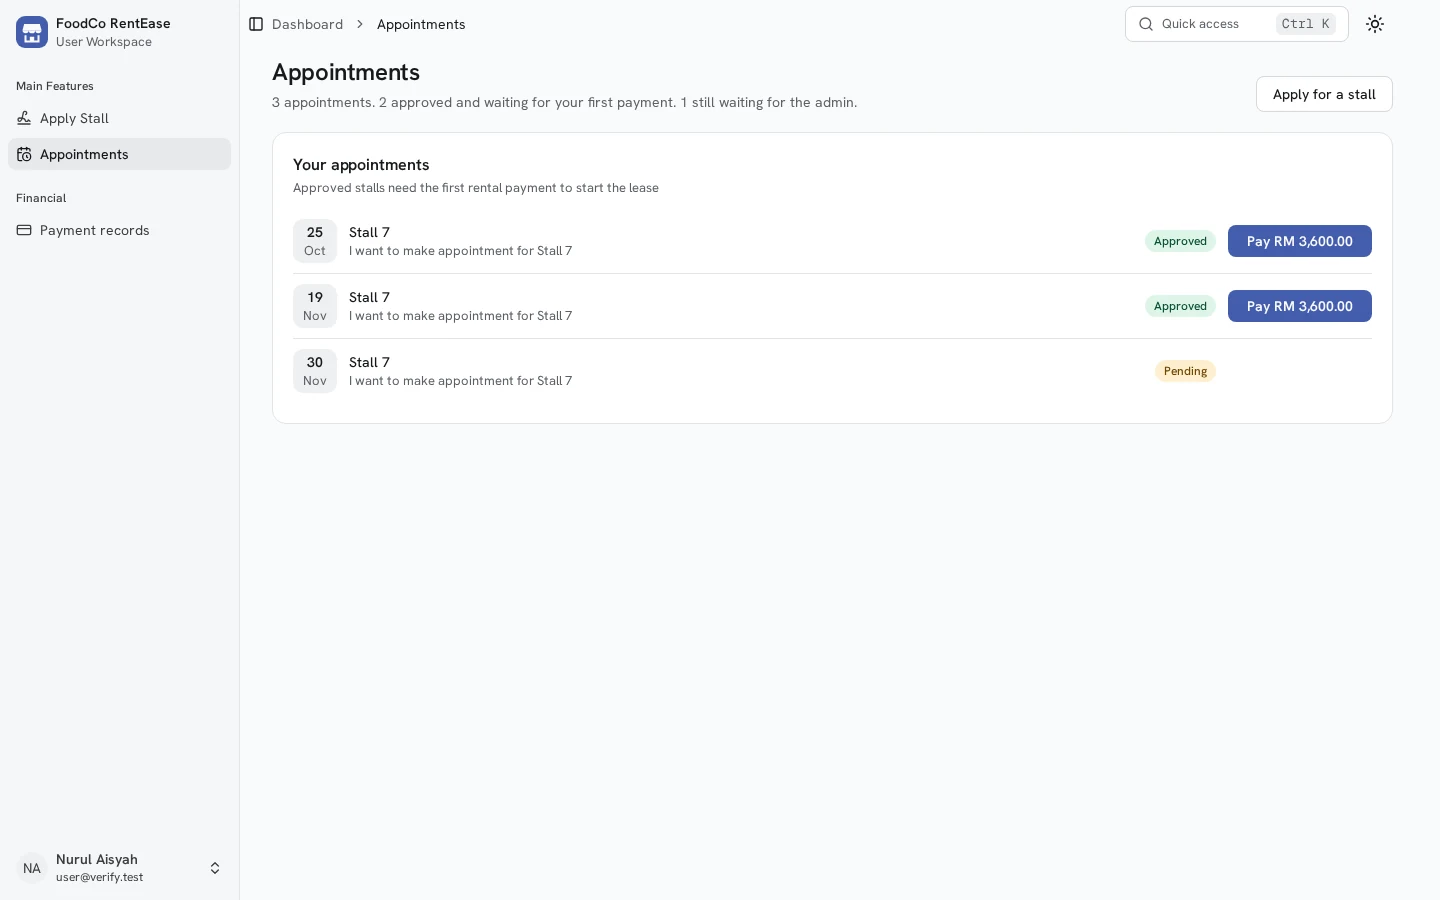
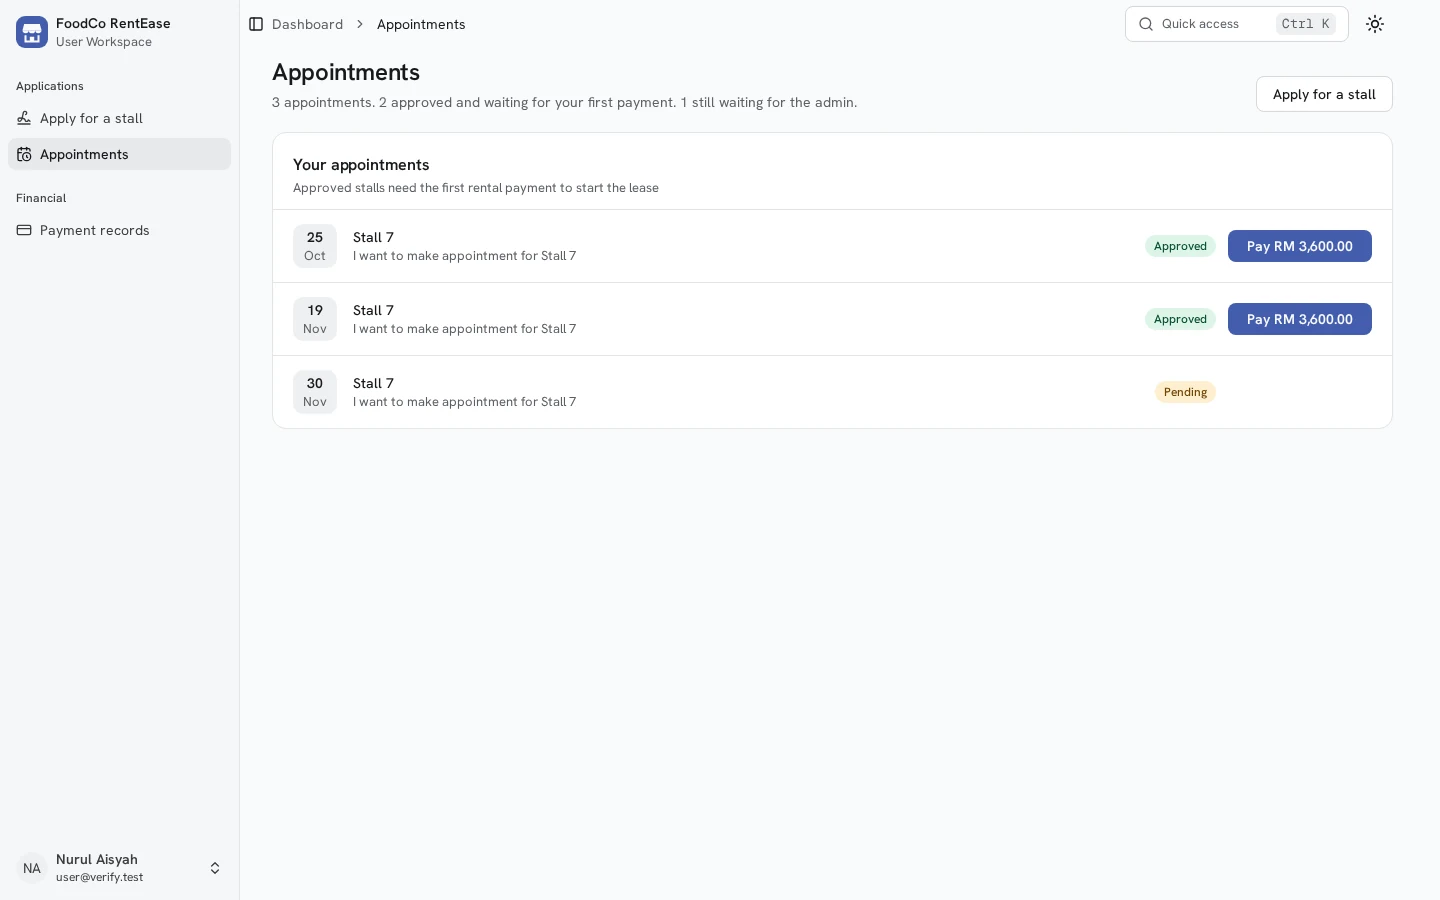
fix(ui): full-bleed appointment rows and one name for applying
Appointment rows now use the same full-width divided list as Leases and
Utilities. The sidebar said Apply Stall or Apply New Stall while the page
button said Apply for a stall; use Apply for a stall under an Applications
group for both workspaces.

diff --git a/fc-front/src/pages/dashboard/functionPage/user/components/UserAppointmentTable.tsx b/fc-front/src/pages/dashboard/functionPage/user/components/UserAppointmentTable.tsx
@@ -168,19 +168,26 @@ export default function UserAppointmentTable() {
                 .join(' ')}
       </PageHeader>
 
-      <Panel>
+      <Panel className="gap-0 pb-0 md:pb-0">
         <PanelHeader
+          className="pb-3"
           title="Your appointments"
           meta="Approved stalls need the first rental payment to start the lease"
         />
         {isLoading ? (
-          <PanelRowsSkeleton rows={3} />
+          <div className="pb-4 md:pb-5">
+            <PanelRowsSkeleton rows={3} />
+          </div>
         ) : error ? (
-          <PanelError what="your appointments" />
+          <div className="pb-4 md:pb-5">
+            <PanelError what="your appointments" />
+          </div>
         ) : rows.length === 0 ? (
-          <PanelEmpty>No appointments yet.</PanelEmpty>
+          <div className="pb-4 md:pb-5">
+            <PanelEmpty>No appointments yet.</PanelEmpty>
+          </div>
         ) : (
-          <ul className="flex flex-col divide-y">
+          <ul className="-mx-4 divide-y border-t md:-mx-5">
             {rows.map((notification) => {
               const date = new Date(notification.appointmentDate)
               const status =
@@ -202,7 +209,7 @@ export default function UserAppointmentTable() {
               return (
                 <li
                   key={notification.notificationId}
-                  className="flex min-h-15 flex-wrap items-center gap-x-3 gap-y-2 py-2.5"
+                  className="flex min-h-15 flex-wrap items-center gap-x-4 gap-y-2 px-4 py-3.5 md:px-5"
                 >
                   <time
                     dateTime={date.toISOString()}
@@ -223,7 +230,7 @@ export default function UserAppointmentTable() {
                       {notification.notificationMessage}
                     </p>
                   </div>
-                  <div className="flex items-center gap-3 max-md:w-full max-md:justify-between max-md:pl-14">
+                  <div className="flex items-center gap-3 max-md:w-full max-md:justify-between max-md:pl-15">
                     <Badge
                       variant={
                         status === 'pending'

diff --git a/fc-front/src/pages/dashboard/components/nav-data.ts b/fc-front/src/pages/dashboard/components/nav-data.ts
@@ -128,10 +128,10 @@ export const navByRole: Record<Role, RoleNav> = {
         ],
       },
       {
-        title: 'New Stall',
+        title: 'Applications',
         items: [
           {
-            title: 'Apply New Stall',
+            title: 'Apply for a stall',
             url: '/dashboard/stall-availability',
             icon: LayoutGridIcon,
           },
@@ -161,7 +161,7 @@ export const navByRole: Record<Role, RoleNav> = {
         icon: CreditCardIcon,
       },
       {
-        title: 'Apply New Stall',
+        title: 'Apply for a stall',
         url: '/dashboard/stall-availability',
         icon: HousePlusIcon,
       },
@@ -170,10 +170,10 @@ export const navByRole: Record<Role, RoleNav> = {
   user: {
     main: [
       {
-        title: 'Main Features',
+        title: 'Applications',
         items: [
           {
-            title: 'Apply Stall',
+            title: 'Apply for a stall',
             url: '/dashboard/stall-availability',
             icon: LayoutGridIcon,
           },
@@ -198,7 +198,7 @@ export const navByRole: Record<Role, RoleNav> = {
     secondary: [],
     quick: [
       {
-        title: 'Apply Stall',
+        title: 'Apply for a stall',
         url: '/dashboard/stall-availability',
         icon: FileUserIcon,
       },

diff --git a/fc-front/src/pages/dashboard/components/UserDashboardSidebar.tsx b/fc-front/src/pages/dashboard/components/UserDashboardSidebar.tsx
@@ -271,10 +271,10 @@ export default function UserDashboardSidebar({
           ],
         },
         {
-          title: 'New Stall',
+          title: 'Applications',
           items: [
             {
-              title: 'Apply New Stall',
+              title: 'Apply for a stall',
               url: '/dashboard/stall-availability',
               icon: SignatureIcon,
             },
@@ -302,10 +302,10 @@ export default function UserDashboardSidebar({
       user: account,
       navMain: [
         {
-          title: 'Main Features',
+          title: 'Applications',
           items: [
             {
-              title: 'Apply Stall',
+              title: 'Apply for a stall',
               url: '/dashboard/stall-availability',
               icon: SignatureIcon,
             },
